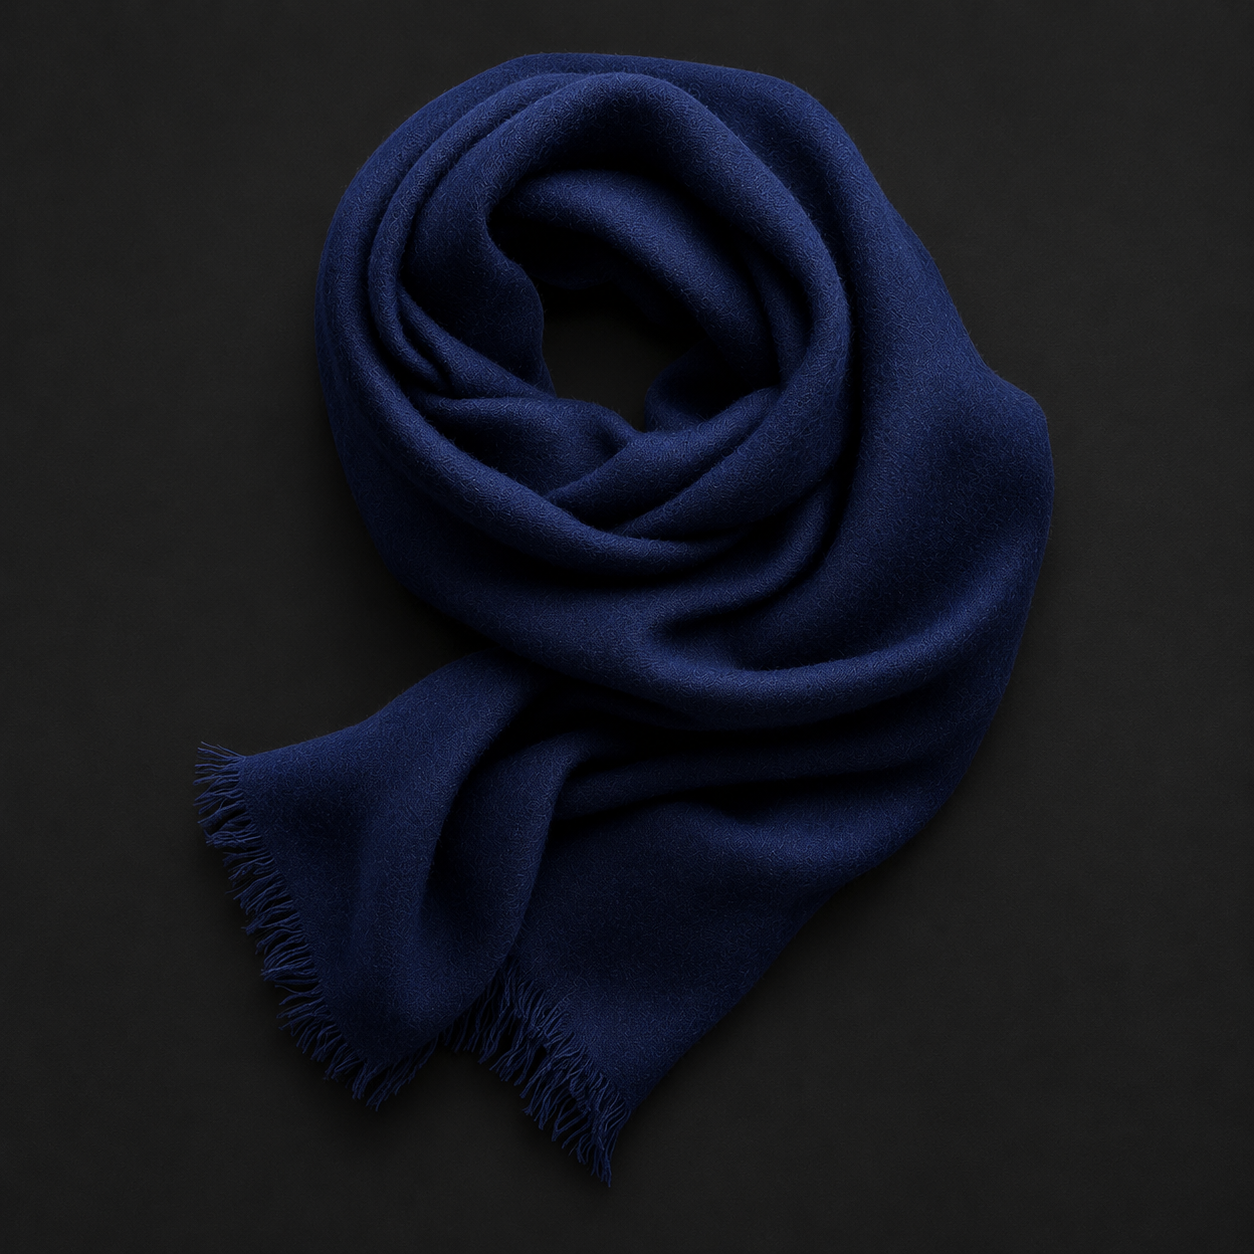
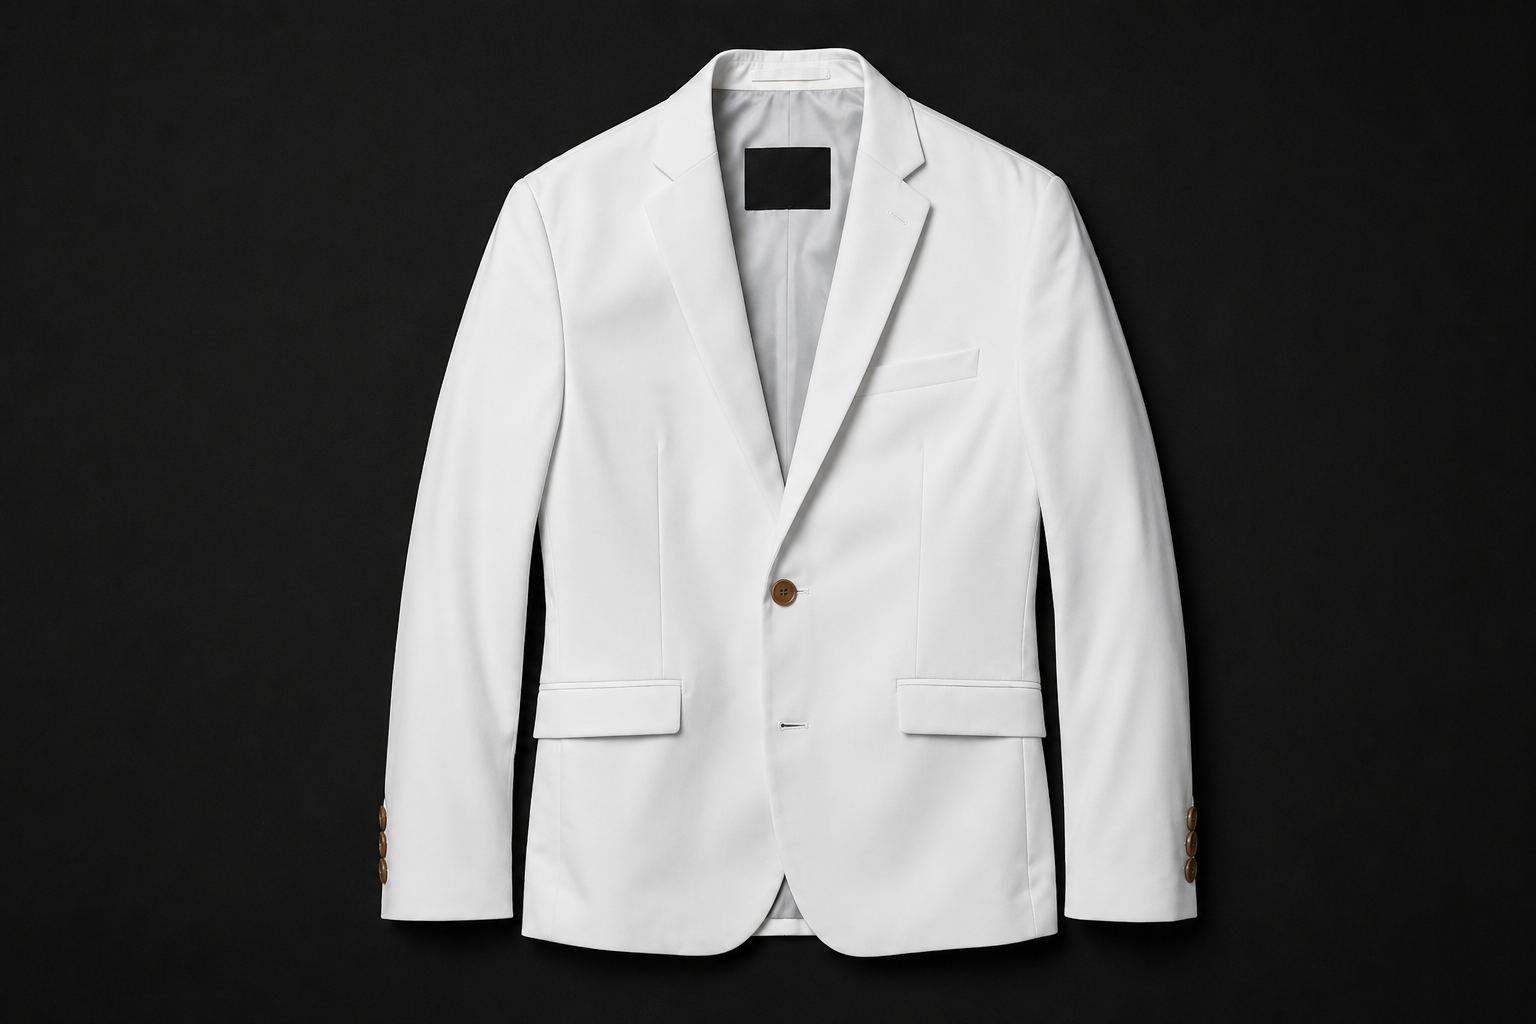
feat(best-sellers): build dynamic product grid and filter UI interactions

diff --git a/css/layout.css b/css/layout.css
@@ -170,7 +170,6 @@ body.menu-open{
 }
 
 .search-overlay__image-wrapper,
-.best-sellers__filter-lists,
 .best-sellers__filter-title{
     display:none;
 }
@@ -331,10 +330,39 @@ body.menu-open{
     padding-bottom:.4em;
 }
 
+.best-sellers__filter-lists.active{
+    display:flex;
+}
+
 .best-sellers__down-arrow,
-.product-card__meta{
+.product-card__meta,
+.product-card__wishlist-icon{
     display:flex;
     align-items:center;
+}
+
+.best-sellers__filter-wrapper{
+    position:relative;
+}
+
+.best-sellers__filter-lists{
+    position:absolute;
+    display:none;
+    flex-direction:column;
+    width:100%;
+    white-space:nowrap;
+    top:40px;
+    right:0;
+    gap:.1rem;
+    background:#fff;
+    border:1px solid #000;
+    z-index:50;
+}
+
+.best-sellers__filter-list-btn{
+    width:100%;
+    text-align:start;
+    padding:.6em .5em;
 }
 
 .best-sellers__product-grid{
@@ -351,14 +379,34 @@ body.menu-open{
 }
 
 .product-card__img-wrapper{
+    position:relative;
     aspect-ratio: 1 / 1;
     overflow:hidden;
+}
+
+.product-card__cart-btn{
+    display:flex;
+    align-items:center;
+    justify-content:center;
+    gap:.5rem;
+    cursor:pointer;
+    position:absolute;
+    width:100%;
+    left:0;
+    right:0;
+    bottom:0;
+    height:48px;
+    text-transform:uppercase;
+    color:#fff;
+    background-color:rgb(24, 24, 27);
+    border:none;
 }
 
 .product-card__img{
     width:100%;
     height:100%;
     object-fit:cover;
+    transition:transform 0.4s ease-in-out;
 }
 
 .product-card__info-wrapper{
@@ -368,11 +416,24 @@ body.menu-open{
 .product-card__info{
     display:flex;
     flex-direction:column;
-    gap:.3rem;
+    gap:.45rem;
     max-width:12rem;
     min-width:0;
 }
 
 .product-card__meta{
     gap:.2rem;
+}
+
+.product-card__wishlist-add{
+    position:absolute;
+    display:flex;
+    align-items:center;
+    justify-content:center;
+    right:14px;
+    top:14px;
+    border:none;
+    touch-action:manipulation;
+    padding:.69em .7em;
+    color:rgb(24, 24, 27);
 }

diff --git a/css/media.css b/css/media.css
@@ -22,6 +22,38 @@
     }
 }
 
+@media(hover: hover){
+    .product-card__cart-btn{
+        opacity:0;
+        transform:translateY(10px);
+        transition:opacity 0.25s ease, transform 0.2s ease, background-color 0.2s ease;
+        pointer-events:none;
+    }
+
+    .product-card__container:hover .product-card__cart-btn{
+        transform:translateY(0);
+        opacity:1;
+        pointer-events:auto;
+    }
+
+    .product-card__container:hover .product-card__img{
+        transform:scale(1.04);
+    }
+
+    .product-card__cart-btn:hover{
+        background-color:rgb(160, 25, 55);
+    }
+
+    .product-card__wishlist-add{
+        cursor:pointer;
+        transition:color 0.2s ease;
+    }
+
+    .product-card__wishlist-add:hover{
+        color:rgb(160, 25, 55);
+    }
+}
+
 @media(min-width:638px){
     .header-section__brand-link-full,
     .mobile-menu__brand-link-full{
@@ -135,6 +167,13 @@
         display:flex;
     }
 
+    .best-sellers__filter-lists{
+        width:fit-content;
+    }
+
+    .best-sellers__filter-list-btn{
+        padding-right:.7em;
+    }
 
 }
 

diff --git a/css/components.css b/css/components.css
@@ -424,8 +424,26 @@
   border-top:1px solid rgba(0, 0, 0, 0.1);
 }
 
+.best-sellers__filter-list-btn{
+  background:none;
+  border:none;
+  transition:transform 0.2s ease;
+  font-size: 0.8rem;
+  color:rgb(24, 24, 27);
+  cursor:pointer;
+}
+
+.best-sellers__filter-list-btn.active{
+  background-color:rgb(160, 25, 55);
+  color:#fff;
+}
+
+.product-card__seasonal-tag{
+  font-size:0.53rem;
+}
+
 .product-card__title{
-  font-size:1.4rem;
+  font-size:1.1rem;
   font-weight:500;
   line-height:1.3;
   margin:0;
@@ -435,12 +453,12 @@
 }
 
 .product-card__rating{
-  font-size:1rem;
+  font-size:0.8rem;
   font-weight:500;
 }
 
 .product-card__colors{
-  font-size:.9rem;
+  font-size:.7rem;
   opacity:0.6;
   text-transform:none;
   font-weight:400;
@@ -452,7 +470,15 @@
 }
 
 .product-card__price{
-  font-size:1.2rem;
+  font-size:0.9rem;
   font-weight:500;
   line-height:1.2;
+}
+
+.product-card__cart-btn-icon{
+  margin-top:.2rem;
+}
+
+.product-card__cart-btn-text{
+  font-size:0.8rem;
 }

diff --git a/js/app.js b/js/app.js
@@ -8,6 +8,13 @@ function renderProducts(productArray, container) {
         <div class="product-card__container">
                 <div class="product-card__img-wrapper">
                     <img class="product-card__img" src="${product.img}" alt="${product.imageAlt}">
+                    <button type="button" class="product-card__cart-btn">
+                        <span class="product-card__cart-btn-icon"><svg xmlns="http://www.w3.org/2000/svg" height="16px" viewBox="0 -960 960 960" width="16px" aria-hidden="true" fill="#e3e3e3"><path d="M444-144v-300H144v-72h300v-300h72v300h300v72H516v300h-72Z"/></svg></span>
+                        <span class="product-card__cart-btn-text">Add to Cart</span>
+                    </button>
+                    <button type="button" class="product-card__wishlist-add" aria-label="add to wishlist">
+                        <span class="product-card__wishlist-icon"><svg xmlns="http://www.w3.org/2000/svg" aria-hidden="true" height="16px" viewBox="0 -960 960 960" width="16px" fill="currentcolor"><path d="m480-120-58-52q-101-91-167-157T150-447.5Q111-500 95.5-544T80-634q0-94 63-157t157-63q52 0 99 22t81 62q34-40 81-62t99-22q94 0 157 63t63 157q0 46-15.5 90T810-447.5Q771-395 705-329T538-172l-58 52Zm0-108q96-86 158-147.5t98-107q36-45.5 50-81t14-70.5q0-60-40-100t-100-40q-47 0-87 26.5T518-680h-76q-15-41-55-67.5T300-774q-60 0-100 40t-40 100q0 35 14 70.5t50 81q36 45.5 98 107T480-228Zm0-273Z"/></svg></span>
+                    </button>
                 </div>
 
                 <div class="product-card__info-wrapper">
@@ -25,7 +32,7 @@ function renderProducts(productArray, container) {
 
                     <span class="product-card__price">$${product.price / 100}</span>
                 </div>
-            </div>
+        </div>
         `
     })
 }
@@ -74,4 +81,29 @@ searchIcon.addEventListener('click', () => {
 
 searchOverlayClose.addEventListener('click', () => {
     searchOverlay.classList.remove('active');
+})
+
+const bestSellerLabelBtn = document.querySelector('.best-sellers__label');
+const bestSellerFilterLists = document.querySelector('.best-sellers__filter-lists');
+
+bestSellerLabelBtn.addEventListener('click', () => {
+    bestSellerFilterLists.classList.toggle('active');
+})
+
+const bestSellersFilterText = document.querySelector('.best-sellers__selected-text');
+const bestSellersFilterBtn = document.querySelectorAll('.best-sellers__filter-list-btn');
+
+bestSellersFilterBtn.forEach(btn => {
+    btn.addEventListener('click', () => {
+
+        bestSellersFilterBtn.forEach(button => {
+            button.classList.remove('active');
+        })
+
+        btn.classList.add('active');
+
+        bestSellersFilterText.textContent = btn.textContent;
+
+        bestSellerFilterLists.classList.remove('active');
+    })
 })

diff --git a/js/data.js b/js/data.js
@@ -7,7 +7,7 @@ export const products = [
         imageAlt: "charcoal sweatshirt flat lay",
         wishlistHeart:"",
         seasonalTag: "[ 01 / SS-0421 ]",
-        price: 48000,
+        price: 8500,
         rating: 4.8, 
         colors: "3 Colors",
         sizes: ["XS", "S", "M", "L", "XL"],
@@ -22,7 +22,7 @@ export const products = [
         imageAlt: "black leather bag",
         wishlistHeart:"",
         seasonalTag: "[ 02 / SS-0322 ]",
-        price: 20747,
+        price: 30000,
         rating: 4.9, 
         colors: "3 Colors",
         sizes: ["XS", "S", "M", "L", "XL"],
@@ -37,7 +37,7 @@ export const products = [
         imageAlt: "navy wide leg trousers",
         wishlistHeart:"",
         seasonalTag: "[ 03 / SS-0512 ]",
-        price: 18791,
+        price: 9000,
         rating: 4.6, 
         colors: "3 Colors",
         sizes: ["XS", "S", "M", "L", "XL"],
@@ -52,7 +52,7 @@ export const products = [
         imageAlt: "black shirt on wooden hanger",
         wishlistHeart:"",
         seasonalTag: "[ 04 / SS-0210 ]",
-        price: 18500,
+        price: 5500,
         rating: 4.9, 
         colors: "3 Colors",
         sizes: ["XS", "S", "M", "L", "XL"],
@@ -61,13 +61,13 @@ export const products = [
 
     {
         id: 5,
-        title: "Indigo Scarf",
+        title: "White Blazer",
         category: "Women",
         img: "assets/images/best-seller5.png",
-        imageAlt: "indigo scarf on dark backdrop",
+        imageAlt: "white blazer on a dark background",
         wishlistHeart:"",
         seasonalTag: "[ 05 / SS-0701 ]",
-        price: 5799,
+        price: 15000,
         rating: 4.7, 
         colors: "3 Colors",
         sizes: ["XS", "S", "M", "L", "XL"],
@@ -76,13 +76,13 @@ export const products = [
 
     {
         id: 6,
-        title: "Necktie",
-        category: "Men",
+        title: "Diamond knit Cardigan",
+        category: "Female",
         img: "assets/images/best-seller6.png",
-        imageAlt: "black tie with bird embroidery",
+        imageAlt: "cozy cardigan with diamond pattern",
         wishlistHeart:"",
-        seasonalTag: "[ 09 / SS-0422 ]",
-        price: 24800,
+        seasonalTag: "[ 06 / SS-0422 ]",
+        price: 7900,
         rating: 4.8, 
         colors: "3 Colors",
         sizes: ["XS", "S", "M", "L", "XL"],
@@ -97,7 +97,7 @@ export const products = [
         imageAlt: "wool coat with collar",
         wishlistHeart:"",
         seasonalTag: "[ 07 / SS-0513 ]",
-        price: 72000,
+        price: 20000,
         rating: 4.6, 
         colors: "3 Colors",
         sizes: ["XS", "S", "M", "L", "XL"],
@@ -112,7 +112,7 @@ export const products = [
         imageAlt: "Elegant black leather brogues in focus",
         wishlistHeart:"",
         seasonalTag: "[ 08 / SS-0323 ]",
-        price: 35000,
+        price: 18000,
         rating: 4.7, 
         colors: "3 Colors",
         sizes: ["XS", "S", "M", "L", "XL"],

diff --git a/index.html b/index.html
@@ -341,9 +341,9 @@
                         </span>
                     </button>
                     <ul class="best-sellers__filter-lists">
-                        <li class="best-sellers__filter-list">Price: Low to High</li>
-                        <li class="best-sellers__filter-list">Price: High to Low</li>
-                        <li class="best-sellers__filter-list">Popularity</li>
+                        <li class="best-sellers__filter-list"><button class="best-sellers__filter-list-btn">Price: Low to High</button></li>
+                        <li class="best-sellers__filter-list"><button class="best-sellers__filter-list-btn">Price: High to Low</button></li>
+                        <li class="best-sellers__filter-list"><button class="best-sellers__filter-list-btn">Popularity</button></li>
                     </ul>
                 </div>
             </div>